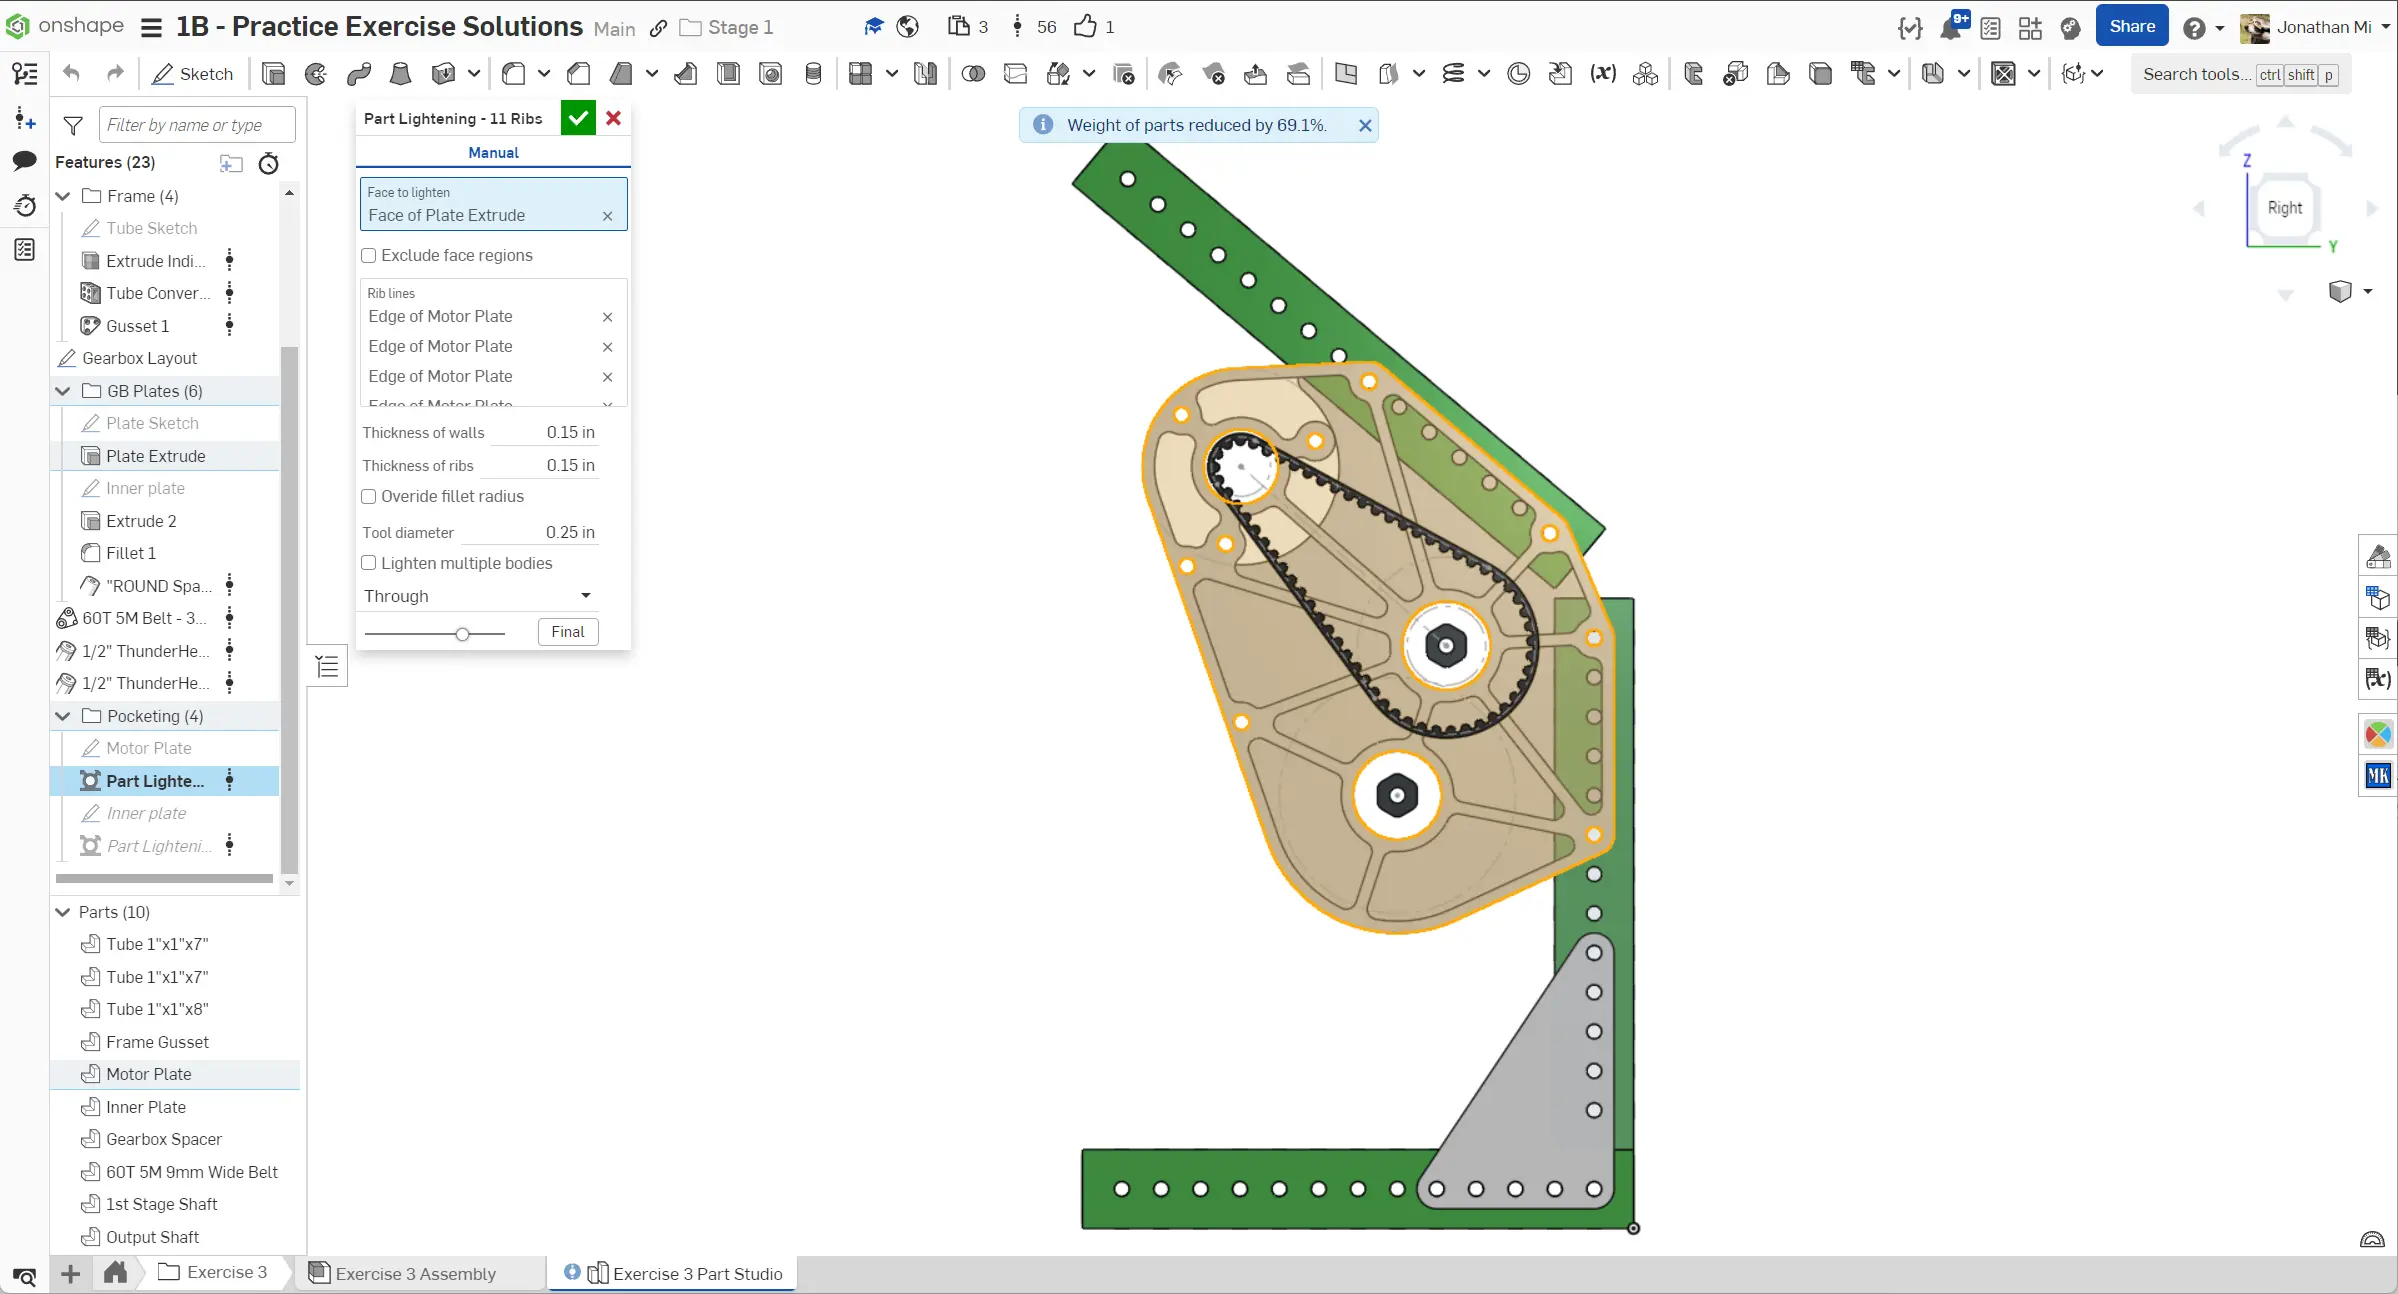
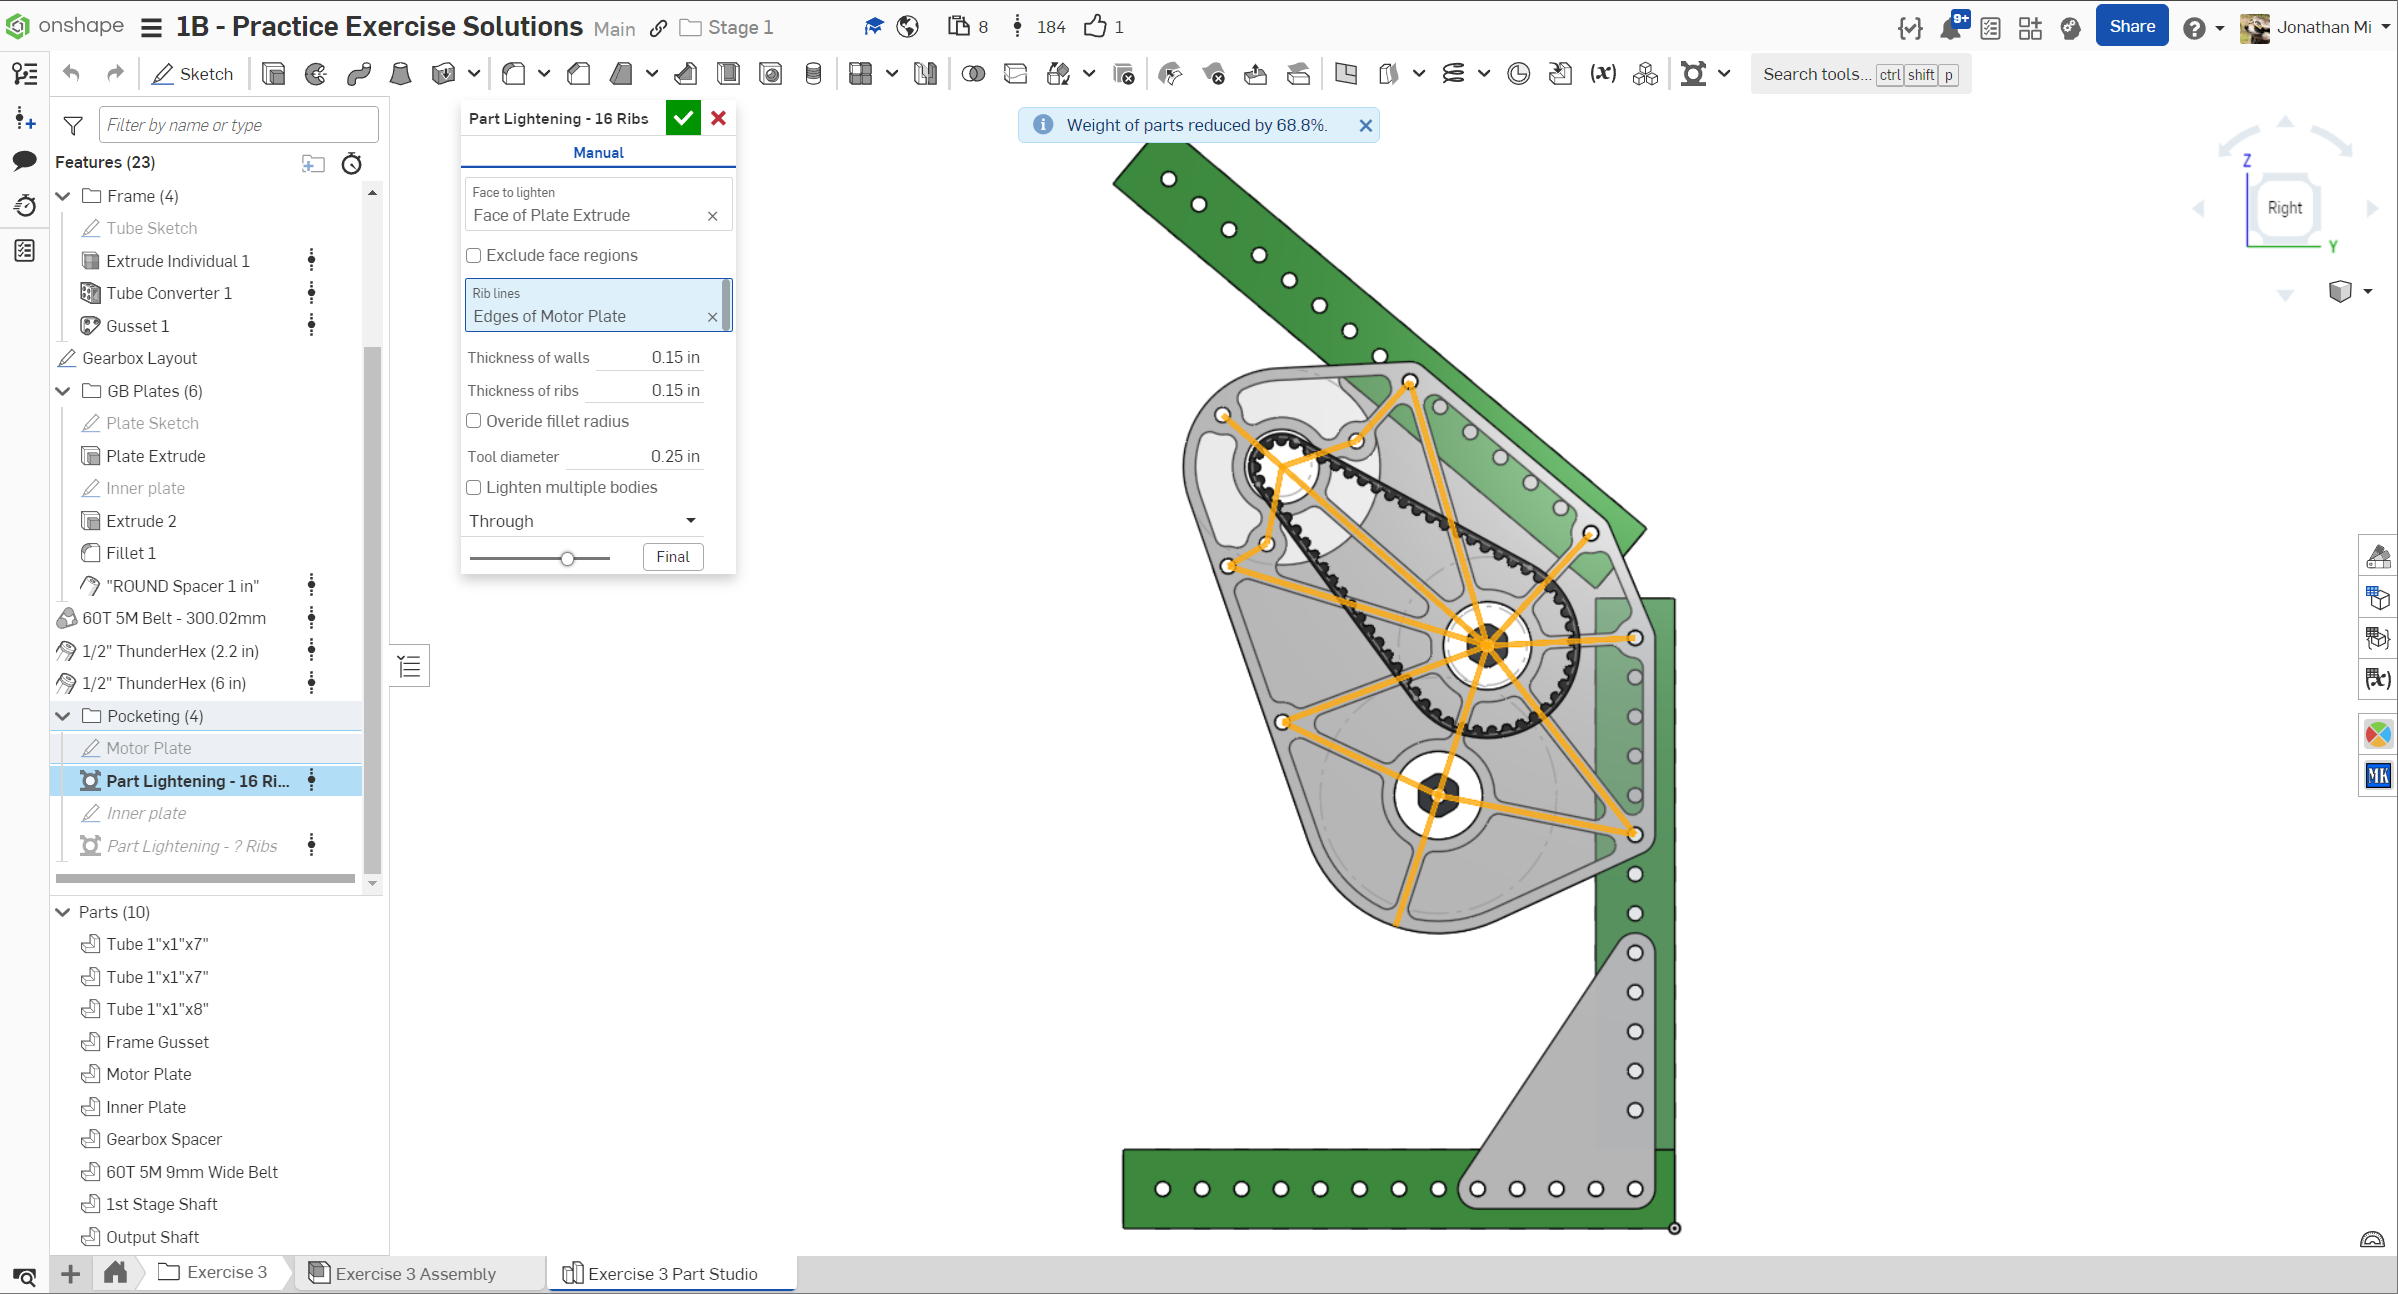
updated pocketing stuff

diff --git a/docs/learning-course/stage1/1B/exercise3.md b/docs/learning-course/stage1/1B/exercise3.md
@@ -195,7 +195,7 @@ In this exercise, you will be modeling a two stage gearbox that uses gears and b
   <div class="mySlides fade">
     <figure>
       <img src="/img/learning-course/stage1b/exercises/e3/e3s26.webp" style="width:100%">
-      <figcaption>25. Use the <code>Part Lighten</code> Featurescript to add the pocketing. Use 0.15" wide ribs and 1/4" tool diameter. </figcaption>
+      <figcaption>25. Use the <code>Part Lighten</code> Featurescript to add the pocketing by selecting the previous sketch. Use 0.15" wide ribs and 0.26" tool diameter. </figcaption>
     </figure>
   </div>
 
@@ -209,7 +209,7 @@ In this exercise, you will be modeling a two stage gearbox that uses gears and b
   <div class="mySlides fade">
     <figure>
       <img src="/img/learning-course/stage1b/exercises/e3/e3s28.webp" style="width:100%">
-      <figcaption>27. Use the <code>Part Lighten</code> Featurescript to add the pocketing. Again, use 0.15" wide ribs and 1/4" tool diameter. </figcaption>
+      <figcaption>27. Use the <code>Part Lighten</code> Featurescript to add the pocketing by selecting the previous sketch. Again, use 0.15" wide ribs and 0.26" tool diameter. </figcaption>
     </figure>
   </div>
 

diff --git a/docs/resources/featurescripts.md b/docs/resources/featurescripts.md
@@ -114,7 +114,7 @@ These featurescripts are must haves to enhance your Onshape workflow. Many of th
 
 ??? Video "Video Tutorial"
     <video controls="true" allowfullscreen="true">
-      <source src="/img/learning-course/stage1b/exercises/e2/e2s8.webm" type="video/mp4">
+      <source src="../../../../img/resources/featurescripts/part-lighten.webm" type="video/mp4">
     </video>
 
 [**FilletXpert (Fillet All Edges)**](https://cad.onshape.com/documents/95c00401c440b44ad8799ef5/w/1f1ebce01a3b8eb6fa102975/e/b92d638809ae48771ecc7ad8 "Fillet All Edges Featurescript Onshape Document"){:target="_blank"} *(Julia's Featurescripts)*
@@ -304,7 +304,7 @@ The below links contain several featurescripts each that you can add all at once
 
 ??? Video "Video Tutorial"
     <video controls="true" allowfullscreen="true">
-      <source src="/img/learning-course/stage1b/exercises/e2/e2s8.webm" type="video/mp4">
+      <source src="../../../../img/resources/featurescripts/part-lighten.webm" type="video/mp4">
     </video>
 
 [**Vent**](https://cad.onshape.com/documents/702f94d6e4ffb0c64f611f87/w/f6ac7d31494b1215bb9c8a61/e/4bf4eb130870ebdf0008c5a4 "Vent Featurescript Onshape Document"){:target="_blank"}
